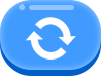
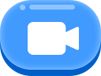
更改细节

diff --git a/cheerz/js/common.js b/cheerz/js/common.js
@@ -411,6 +411,7 @@ function loadbestscore(lid, url, tag) {
 		type: 'post',
 		timeout: 10000,
 		success: function(data) {
+			console.log("loadbestscore()" + JSON.stringify(data));
 			if (data.rst == 0) {} else if (data.rst == 1) {
 				bestscore = data.score;
 				$(tag).text(bestscore);
@@ -456,16 +457,16 @@ function addcointoserv(coin, cha, memo) {
 	memo = memo.replace(/\./g, "");
 	memo = memo.replace(/\//g, "");
 
-	console.log("addcointoserv()")
+	console.log("addcointoserv()" + coin)
 	var token = localStorage.getItem("token");
 	var verify = md5(token + coin + cha); // token+coin+cha
 
-	// console.log("token:" + token);
-	// console.log("coin:" + coin);
-	// console.log("cha:" + cha);
-	// console.log("memo:" + memo);
-	// console.log("verify:" + token + coin + cha);
-	// console.log("md5:" + verify);
+	console.log("token:" + token);
+	console.log("coin:" + coin);
+	console.log("cha:" + cha);
+	console.log("memo:" + memo);
+	console.log("verify:" + token + coin + cha);
+	console.log("md5:" + verify);
 
 	mui.ajax({
 		url: 'http://47.241.5.29/Home_index_addcoin.html',

diff --git a/cheerz/css/style.css b/cheerz/css/style.css
@@ -343,8 +343,8 @@ input:-ms-input-placeholder {color: #666;}
 .laoshi-list a.yin{ background:url(../images/ls-01.png) no-repeat; background-size:100% 100%;}
 .laoshi-list a.yin:hover{ background:url(../images/ls-01-hover.png) no-repeat; background-size:100% 100%;}
 
-.laoshi-list a.shua{ background:url(../images/ls-02.png) no-repeat; background-size:100% 100%;}
-.laoshi-list a.shua:hover{ background:url(../images/ls-02-hover.png) no-repeat; background-size:100% 100%;}
+.laoshi-list a.camera{ background:url(../images/ls-02.png) no-repeat; background-size:100% 100%;}
+.laoshi-list a.camera:hover{ background:url(../images/ls-02-hover.png) no-repeat; background-size:100% 100%;}
 
 
 .laoshi-list a.ce{ background:url(../images/ls-03.png) no-repeat; background-size:100% 100%;}

diff --git a/cheerz/zhibo-kt.html b/cheerz/zhibo-kt.html
@@ -35,7 +35,7 @@
 						<div class="laoshi-btn">
 							<div class="laoshi-list mui-clearfix">
 								<a href="javascript:muteplayer()" class="yin"><span class="pingbi" id="pingbivoice"></span></a>
-								<a href="javascript:stopotherplayer()" class="shua"><span class="pingbi" id="pingbivideo"></span></a>
+								<a href="javascript:stopotherplayer()" class="camera"><span class="pingbi" id="pingbivideo"></span></a>
 								<!-- <a href="" class="ce"></a> -->
 								<!-- <a href="javascript:void(0)" onclick="document.getElementById('light-kf').style.display='block';document.getElementById('fade').style.display='block'"
 								 class="kf">
